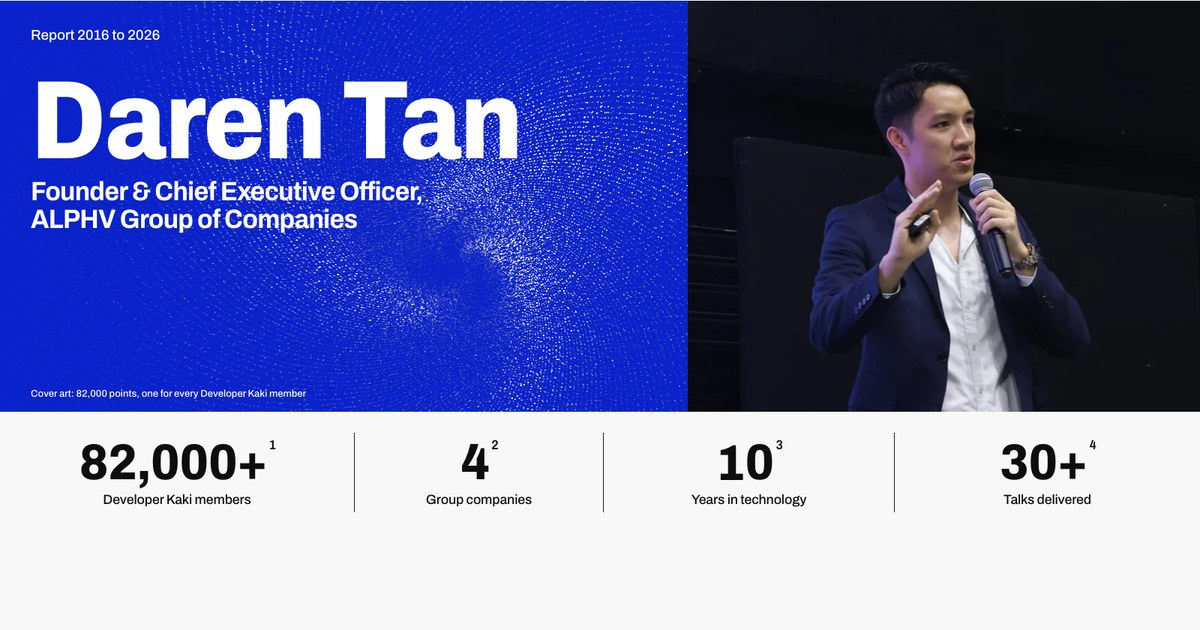
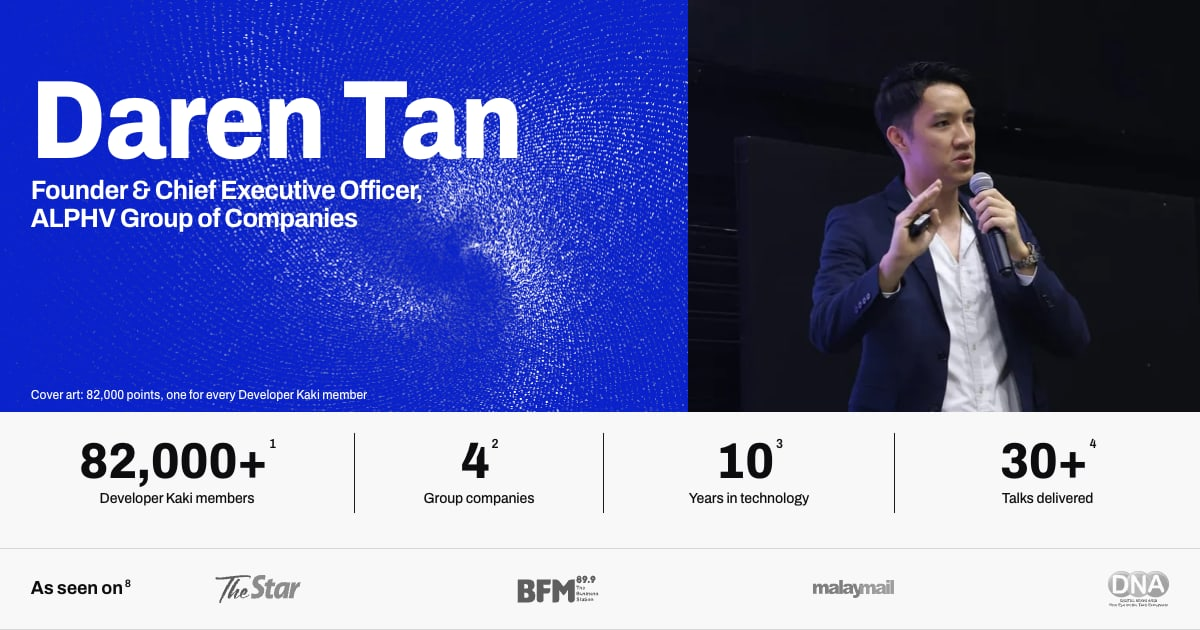
Make Daren discoverable as an AI speaker and trainer in Malaysia
- Titles, descriptions and profile text name him as a Malaysian AI
  speaker and trainer, backed by note 4, the ASEAN AI Summit keynote
  and ALPHV Academy.
- schema.org JSON-LD on every page: Person (also Tan De Zhern) with
  occupations, topics, awards and profiles; Developer Kaki; the page.
- Generated sitemap.xml and llms.txt; robots.txt allowing all crawlers.
- Recapture the share image without the old cover label.

diff --git a/src/lib/schema.ts b/src/lib/schema.ts
@@ -1,0 +1,84 @@
+// Structured data (schema.org JSON-LD) for search engines and AI assistants: who Daren is, what he
+// does and which profiles are his. Built from src/data/content.ts so it never drifts from the page.
+import { person, socials, recognition } from '../data/content';
+
+export const SITE = 'https://darentan.my';
+export const PERSON_ID = `${SITE}/#person`;
+const WEBSITE_ID = `${SITE}/#website`;
+
+const malaysia = { '@type': 'Country', name: 'Malaysia' };
+
+const personNode = {
+  '@type': 'Person',
+  '@id': PERSON_ID,
+  name: person.name,
+  alternateName: 'Tan De Zhern',
+  url: `${SITE}/`,
+  image: `${SITE}/daren-tan.jpg`,
+  jobTitle: 'Founder & CEO',
+  description:
+    'Daren Tan is a Malaysian AI speaker and trainer, Founder and CEO of ALPHV Group of Companies, which builds AI, data and cloud solutions across Southeast Asia, and founder of Developer Kaki, Malaysia’s largest developer community.',
+  worksFor: { '@type': 'Organization', name: person.company },
+  hasOccupation: [
+    { '@type': 'Occupation', name: 'Founder and CEO', occupationLocation: malaysia },
+    { '@type': 'Occupation', name: 'AI speaker', occupationLocation: malaysia },
+    { '@type': 'Occupation', name: 'AI trainer', occupationLocation: malaysia },
+  ],
+  knowsAbout: [
+    'Artificial intelligence',
+    'Generative AI',
+    'Agentic AI',
+    'Machine learning',
+    'Data science',
+    'Cloud computing',
+    'Digital transformation',
+    'AI training for teams',
+    'Developer communities',
+    'Hackathons',
+  ],
+  knowsLanguage: ['en', 'ms'],
+  address: { '@type': 'PostalAddress', addressLocality: 'Kuala Lumpur', addressCountry: 'MY' },
+  alumniOf: [
+    { '@type': 'CollegeOrUniversity', name: 'Multimedia University' },
+    { '@type': 'CollegeOrUniversity', name: 'Universiti Tunku Abdul Rahman' },
+  ],
+  award: recognition.map((r) => `${r.title}, ${r.by} (${r.year})`),
+  sameAs: socials.filter((s) => s.label !== 'WhatsApp').map((s) => s.href),
+};
+
+const communityNode = {
+  '@type': 'Organization',
+  '@id': `${SITE}/#developer-kaki`,
+  name: 'Developer Kaki',
+  description: 'Malaysia’s largest developer community.',
+  url: `${SITE}/work/developer-kaki/`,
+  founder: { '@id': PERSON_ID },
+  foundingDate: '2019-02',
+};
+
+const websiteNode = {
+  '@type': 'WebSite',
+  '@id': WEBSITE_ID,
+  url: `${SITE}/`,
+  name: person.name,
+  inLanguage: 'en-MY',
+  publisher: { '@id': PERSON_ID },
+};
+
+/** A page node about Daren, e.g. the home page as a ProfilePage. */
+export const pageNode = (type: 'ProfilePage' | 'WebPage', path: string, name: string) => ({
+  '@type': type,
+  '@id': `${SITE}${path}#page`,
+  url: `${SITE}${path}`,
+  name,
+  isPartOf: { '@id': WEBSITE_ID },
+  about: { '@id': PERSON_ID },
+  ...(type === 'ProfilePage' ? { mainEntity: { '@id': PERSON_ID } } : {}),
+});
+
+/** The full graph for a page, as a string safe to place inside a <script> tag. */
+export const graphFor = (extra: object[] = []) =>
+  JSON.stringify({ '@context': 'https://schema.org', '@graph': [websiteNode, personNode, communityNode, ...extra] }).replace(
+    /</g,
+    '\\u003c',
+  );

diff --git a/src/pages/llms.txt.ts b/src/pages/llms.txt.ts
@@ -1,0 +1,48 @@
+// llms.txt: a plain-text summary of the site for AI assistants (https://llmstxt.org).
+// Built from src/data/content.ts and the media kit's full bio, so it stays in step with the pages.
+import type { APIRoute } from 'astro';
+import { getCollection } from 'astro:content';
+import { person, keyFigures, recognition, articles, talks, LINKEDIN } from '../data/content';
+
+export const GET: APIRoute = async ({ site }) => {
+  const url = (path: string) => new URL(path, site).toString();
+  const fullBio = (await getCollection('bios')).find((b) => b.id === 'full')?.body?.trim() ?? person.summary;
+
+  const text = `# ${person.name}
+
+> ${person.name} (Tan De Zhern) is a Malaysian AI speaker and trainer based in ${person.location}: ${person.role} of ${person.company}, and founder of Developer Kaki, Malaysia’s largest developer community.
+
+${fullBio}
+
+## Key figures
+
+${keyFigures.map((f) => `- ${f.label}: ${f.value}`).join('\n')}
+
+## Speaking and training
+
+- More than 30 invited talks, including the technical AI keynote at the ASEAN AI Summit 2025.
+- AI training for engineers, managers and C-suite teams through ALPHV Academy (HRDC-claimable).
+- Recorded talks: ${talks.map((t) => `"${t.title}" (${t.venue}, ${t.date})`).join('; ')}.
+
+## Recognition
+
+${recognition.map((r) => `- ${r.year}: ${r.title} (${r.by})`).join('\n')}
+
+## Pages
+
+- [Home](${url('/')}): profile, key figures, group structure, recognition and media.
+- [Media kit](${url('/media-kit/')}): speaker bios to copy and speaker photos to download, for event organisers.
+- [ALPHV Group of Companies](${url('/work/alphv-group/')}): segment review of the group.
+- [Developer Kaki](${url('/work/developer-kaki/')}): segment review of the community.
+
+## In the press
+
+${articles.map((a) => `- [${a.title}](${a.url}), ${a.outlet}, ${a.date}`).join('\n')}
+
+## Contact
+
+- [LinkedIn](${LINKEDIN})
+`;
+
+  return new Response(text, { headers: { 'Content-Type': 'text/plain; charset=utf-8' } });
+};

diff --git a/src/pages/sitemap.xml.ts b/src/pages/sitemap.xml.ts
@@ -1,0 +1,20 @@
+// sitemap.xml, built from the pages in src/pages so new pages are listed without editing this file.
+import type { APIRoute } from 'astro';
+
+const pages = Object.keys(import.meta.glob('./**/*.astro'));
+
+// "./index.astro" → "/", "./media-kit.astro" → "/media-kit/", "./work/alphv-group.astro" → "/work/alphv-group/"
+const pathFor = (file: string) => file.slice(1).replace(/index\.astro$/, '').replace(/\.astro$/, '/');
+
+export const GET: APIRoute = ({ site }) => {
+  const lastmod = new Date().toISOString().slice(0, 10);
+  const urls = pages
+    .map(pathFor)
+    .sort()
+    .map((path) => `  <url><loc>${new URL(path, site)}</loc><lastmod>${lastmod}</lastmod></url>`)
+    .join('\n');
+  return new Response(
+    `<?xml version="1.0" encoding="UTF-8"?>\n<urlset xmlns="http://www.sitemaps.org/schemas/sitemap/0.9">\n${urls}\n</urlset>\n`,
+    { headers: { 'Content-Type': 'application/xml; charset=utf-8' } },
+  );
+};

diff --git a/PRODUCT.md b/PRODUCT.md
@@ -92,3 +92,12 @@ Rules:
 ## Accessibility & Inclusion
 
 WCAG 2.2 AA is the default standard (not a requirement Daren set). Because the stack is motion-heavy (GSAP, Lenis, WebGL), every authored motion needs a `prefers-reduced-motion` path, and content must stay readable if scripts or WebGL fail.
+
+## Discoverability
+
+Added 2026-10-24 so that Google, Bing and AI assistants (ChatGPT, Gemini, Claude) can match Daren to searches such as "AI speaker Malaysia" and "AI trainer Malaysia":
+- Page titles and descriptions name him as a Malaysian AI speaker and trainer; the profile states it in visible text, backed by note 4 (30+ talks), the ASEAN AI Summit 2025 keynote and ALPHV Academy.
+- Every page carries schema.org JSON-LD (`src/lib/schema.ts`): a Person (Daren Tan, also Tan De Zhern) with occupations, topics, awards and his social profiles, Developer Kaki as an organisation he founded, and the page itself. It is built from `src/data/content.ts`.
+- `/sitemap.xml` and `/llms.txt` are generated from the pages and data at build time; `robots.txt` allows every crawler, AI crawlers included.
+- `public/og.jpg` is a capture of the home cover and key figures; recapture it when the cover changes.
+- Still to do by Daren: verify the site in Google Search Console and Bing Webmaster Tools and submit the sitemap; use the same wording on LinkedIn and ALPHV Academy and ask organisers to link bios to darentan.my.
